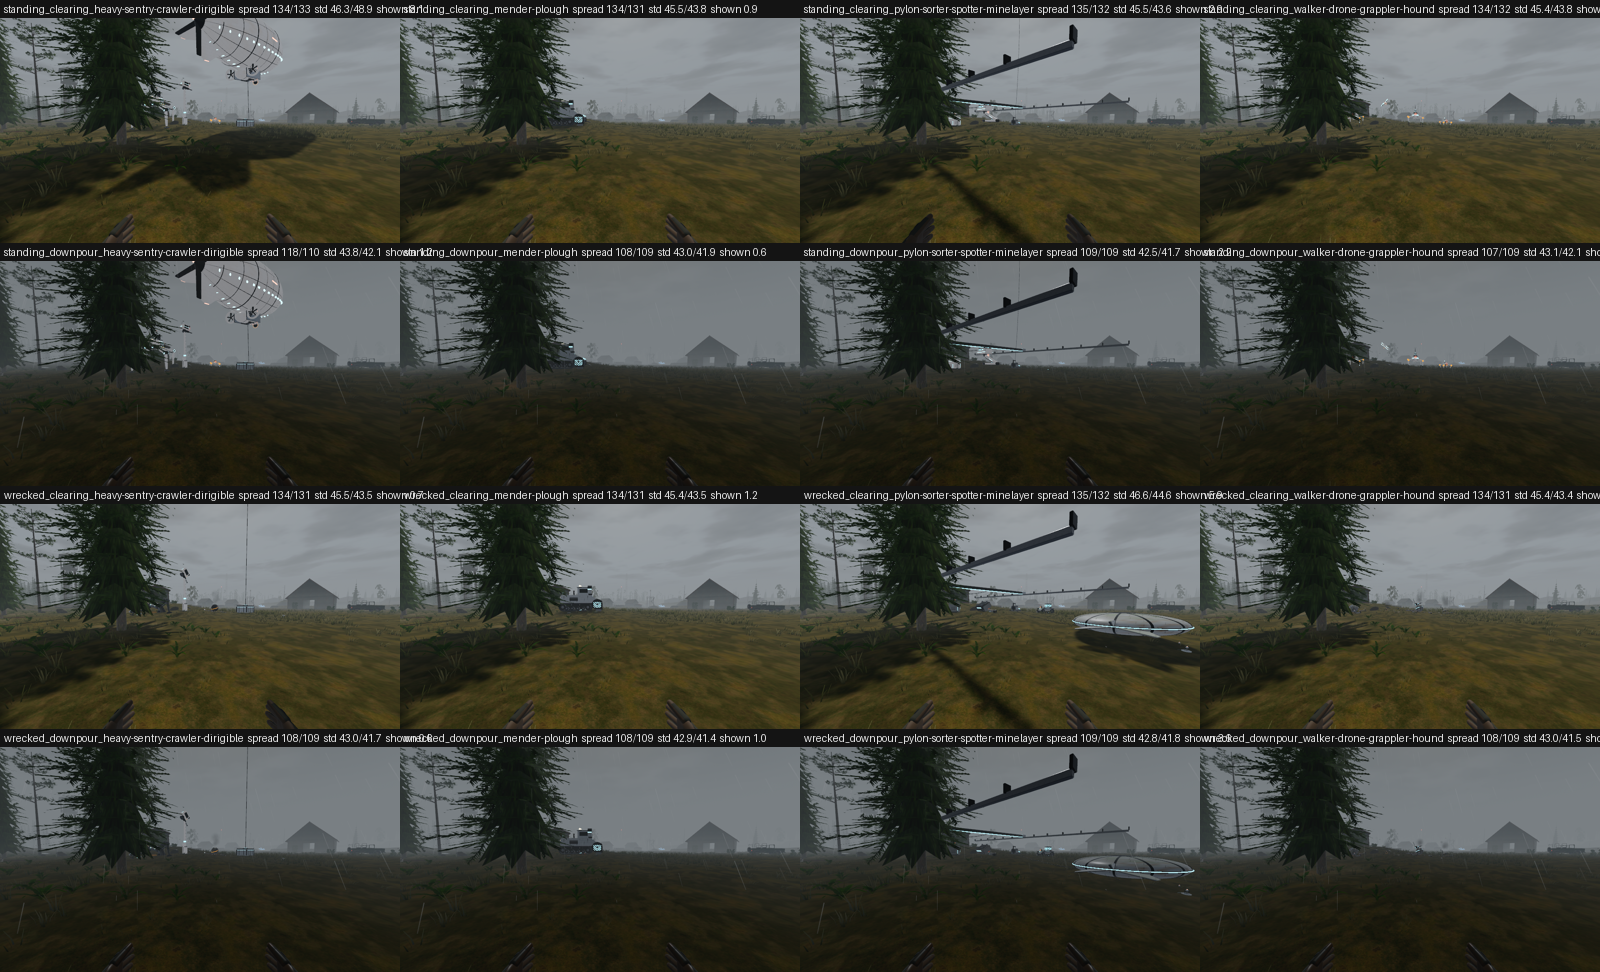
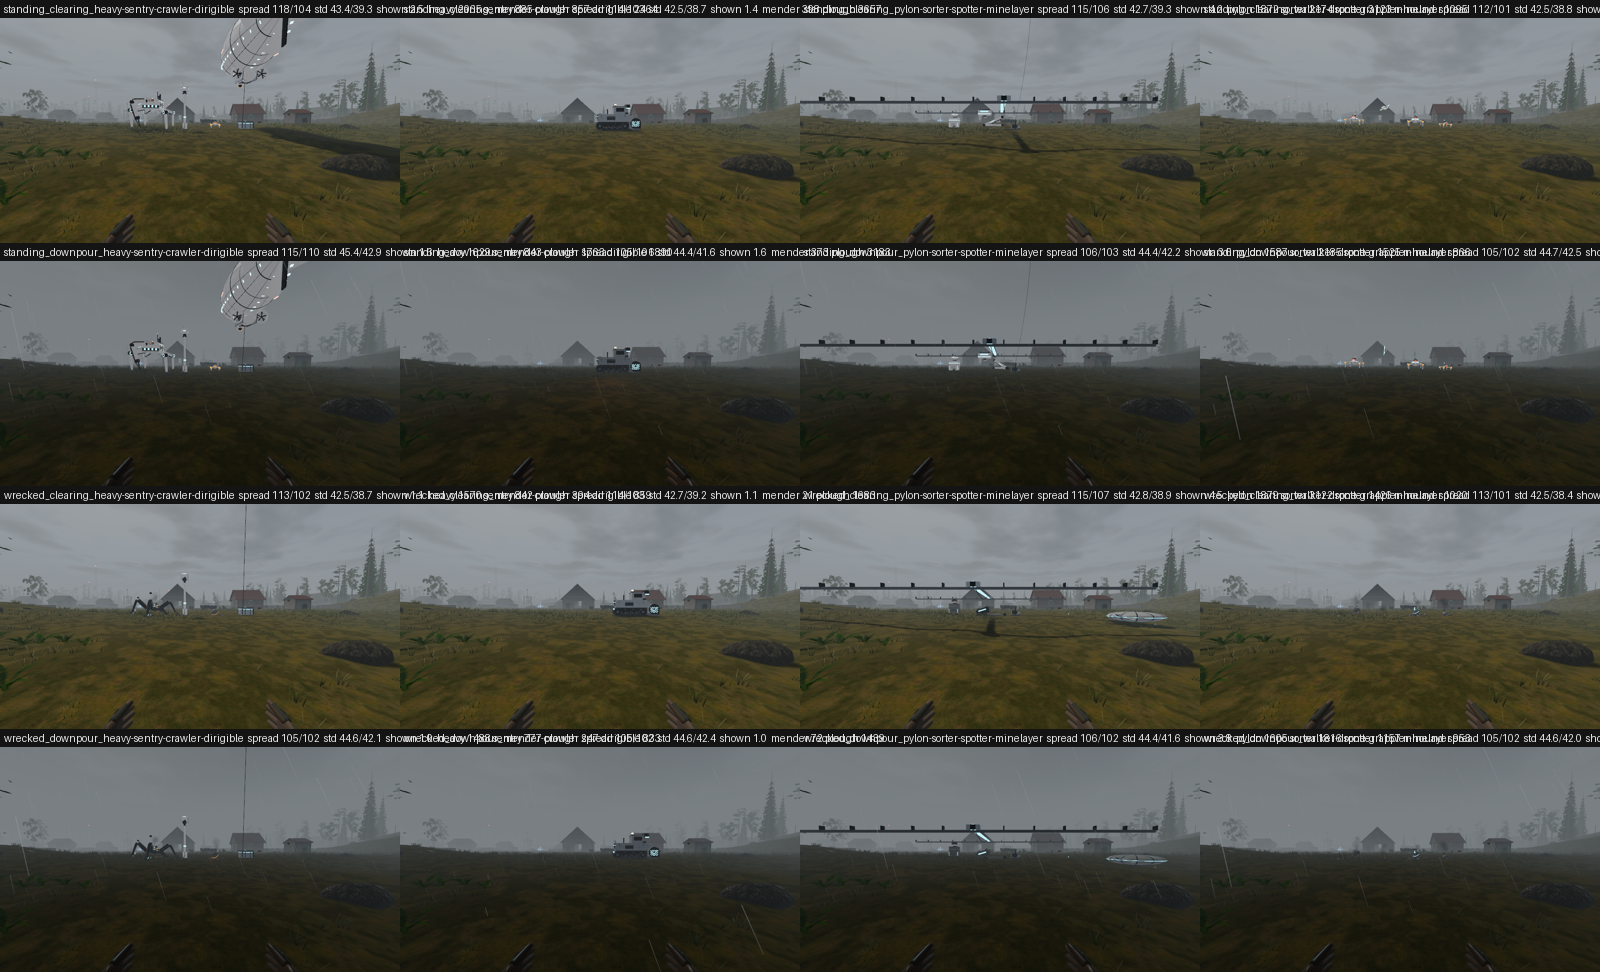
robot_frames: the line-up framed close, each machine checked on its own
- The view: Marrow's meadow looking north (lookbook m03's spot, yaw 0):
  open grass to the farm, nothing in the foreground (the spruce at yaw
  315 hid the left of the line-up). The line-up stands 17 m off, as
  asked: it was there all along, only small under the free camera's 75
  degrees.
- frame_check --lineup DIST,FOV: each machine's own column (its place
  from the line-up's spacing and the camera's field of view) held
  against the empty view; one with under PER_MACHINE (40) pixels changed
  by over CHANGED (12) didn't draw. A wrecked drone or mender (a small
  heap in the grass) needs 15. Measured: a standing hound 194-259, a
  wrecked heavy 1488-1570, an empty column 0-2.
- dev gallery: a line-up's plough stands at its road's start, in its own
  place in the line (it stood 6 m left, in the mender's).
16/16 frames drawn, every machine in its column, no camera under the
ground. docs/shots/robot-frames/sheet.png re-made.

Claude-Session: https://claude.ai/code/session_01UYS29AKspvCeepAatEb31x

diff --git a/scripts/frame_check.py b/scripts/frame_check.py
@@ -1,7 +1,8 @@
 #!/usr/bin/env python3
 """Fail on a blank frame; lay the frames out on a contact sheet.
 
-    scripts/frame_check.py [--sheet out.png] [--empty PREFIX] frame.png ...
+    scripts/frame_check.py [--sheet out.png] [--empty PREFIX]
+                           [--lineup DIST,FOV] frame.png ...
 
 A frame is blank when it's one flat colour with nothing in it, as a
 camera under the ground, in a wall or looking into nothing shows: its
@@ -15,6 +16,12 @@ frame's name): a frame whose middle differs from it by under SHOWN (mean
 absolute difference, 0-255) didn't draw what it was meant to show. (A
 line-up of machines 20-50 m off measures 0.2-8; the same view with
 nothing drawn, 0.0.)
+With --lineup, a frame is a `--gallery robots:` line-up DIST m ahead
+under a FOV-degree (vertical) camera, its machines named in its file name
+after the weather (`standing_clearing_walker-drone.png`), each MACHINE_GAP
+apart (dev.rs: the larger of 3.5 m and 0.16 DIST): each machine's own
+column is held against the empty view's: one with under PER_MACHINE of its
+pixels changed by over CHANGED didn't draw.
 Exits 1 if any frame is blank, shows nothing, or is missing.
 """
 
@@ -24,6 +31,16 @@ from PIL import Image, ImageDraw, ImageStat
 SPREAD = 12
 STD = 4.0
 SHOWN = 0.1
+# A machine's column: pixels changed by over CHANGED, at least PER_MACHINE
+# of them. Measured at 960x540, a line-up 17 m off: a standing hound 194
+# (259 in a downpour), a wrecked heavy 1488-1570; the empty view against
+# itself 0, and a column with nothing in it 0-2 (the rain changes almost
+# nothing over 12).
+CHANGED = 12
+PER_MACHINE = 40
+# A wrecked flyer (a drone, a mender) is a small heap in the grass, an
+# ember and its smoke (a wrecked mender 21, a drone 56): held to less.
+SMALL_WRECK = {"drone": 15, "mender": 15}
 
 
 def measure(im):
@@ -59,6 +76,26 @@ def shown(im, empty):
     return sum(diff) / len(diff)
 
 
+def columns(im, empty, n, dist, fov):
+    """Each of a line-up's `n` machines' columns: how many of its pixels
+    differ from `empty`'s by over CHANGED (0-255), left to right as the
+    line-up stands, over the band a machine 17 m off stands in."""
+    import math
+
+    w, h = im.size
+    gap = max(3.5, 0.16 * dist)
+    half_w = math.tan(math.radians(fov) / 2) * w / h
+    a_all, b_all = im.convert("L"), empty.resize(im.size).convert("L")
+    out = []
+    for i in range(n):
+        off = (i - (n - 1) / 2) * gap
+        x = w / 2 + (off / dist) / half_w * (w / 2)
+        box = (int(x - w * 0.04), int(h * 0.1), int(x + w * 0.04), int(h * 0.6))
+        a, b = a_all.crop(box).tobytes(), b_all.crop(box).tobytes()
+        out.append(sum(1 for p, q in zip(a, b) if abs(p - q) > CHANGED))
+    return out
+
+
 def sheet(frames, out, cols=4, cell=(400, 225)):
     rows = (len(frames) + cols - 1) // cols
     s = Image.new("RGB", (cols * cell[0], rows * (cell[1] + 18)), (20, 20, 20))
@@ -73,12 +110,14 @@ def sheet(frames, out, cols=4, cell=(400, 225)):
 
 
 def main(argv):
-    out, empty = None, None
-    while argv[:1] in (["--sheet"], ["--empty"]):
+    out, empty, lineup = None, None, None
+    while argv[:1] in (["--sheet"], ["--empty"], ["--lineup"]):
         if argv[0] == "--sheet":
             out = argv[1]
-        else:
+        elif argv[0] == "--empty":
             empty = argv[1]
+        else:
+            lineup = [float(v) for v in argv[1].split(",")]
         argv = argv[2:]
     frames, bad = [], 0
     for path in argv:
@@ -94,6 +133,18 @@ def main(argv):
             if d < SHOWN:
                 note += "  NOTHING"
                 blank = True
+            if lineup and not blank:
+                name = path.rsplit("/", 1)[-1].removesuffix(".png")
+                kinds = name.split("_", 2)[2].split("-")
+                empty_im = Image.open(f"{empty}{weather}.png").convert("RGB")
+                cols = columns(im, empty_im, len(kinds), *lineup)
+                note += "  " + " ".join(f"{k} {c}" for k, c in zip(kinds, cols))
+                wrecked = name.startswith("wrecked_")
+                need = lambda k: SMALL_WRECK.get(k, PER_MACHINE) if wrecked else PER_MACHINE
+                missing = [k for k, c in zip(kinds, cols) if c < need(k)]
+                if missing:
+                    note += "  MISSING " + ",".join(missing)
+                    blank = True
         bad += blank
         print(f"{'FAIL ' if blank else 'ok   '}  {path}  {note}")
         frames.append((path, im, note))

diff --git a/src/dev.rs b/src/dev.rs
@@ -577,7 +577,9 @@ fn gallery(
                             at,
                         ),
                         "plough" => {
-                            let (a, b) = (at - right * 6.0, at + right * 6.0);
+                            // (It stands at its road's start, its shed:
+                            // here, in its place in the line.)
+                            let (a, b) = (at, at + right * 12.0);
                             crate::robots::plough::spawn_plough(
                                 &mut commands,
                                 &zone,
